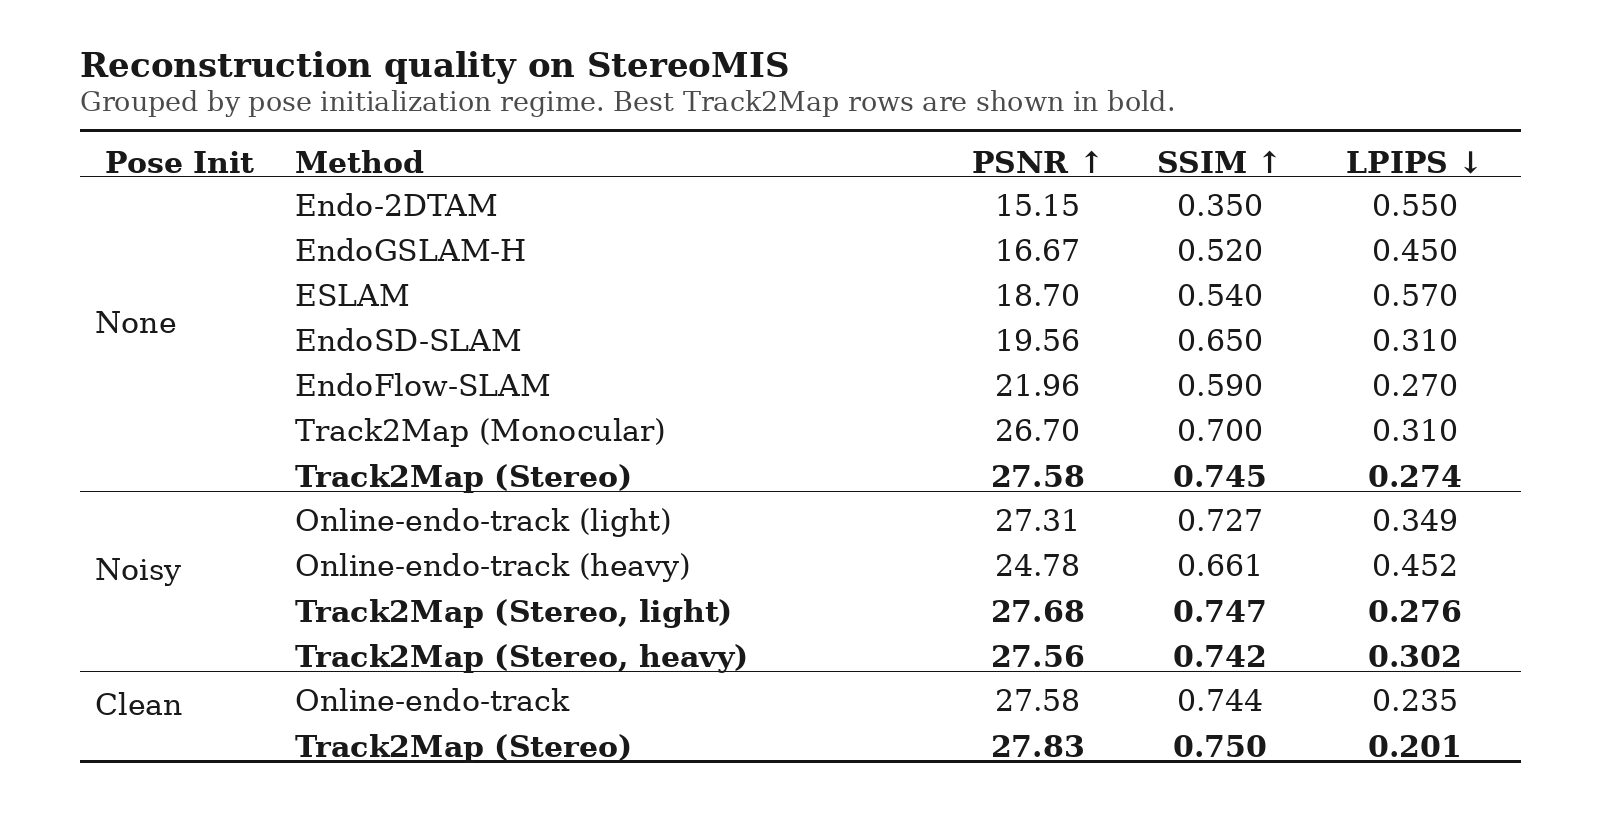
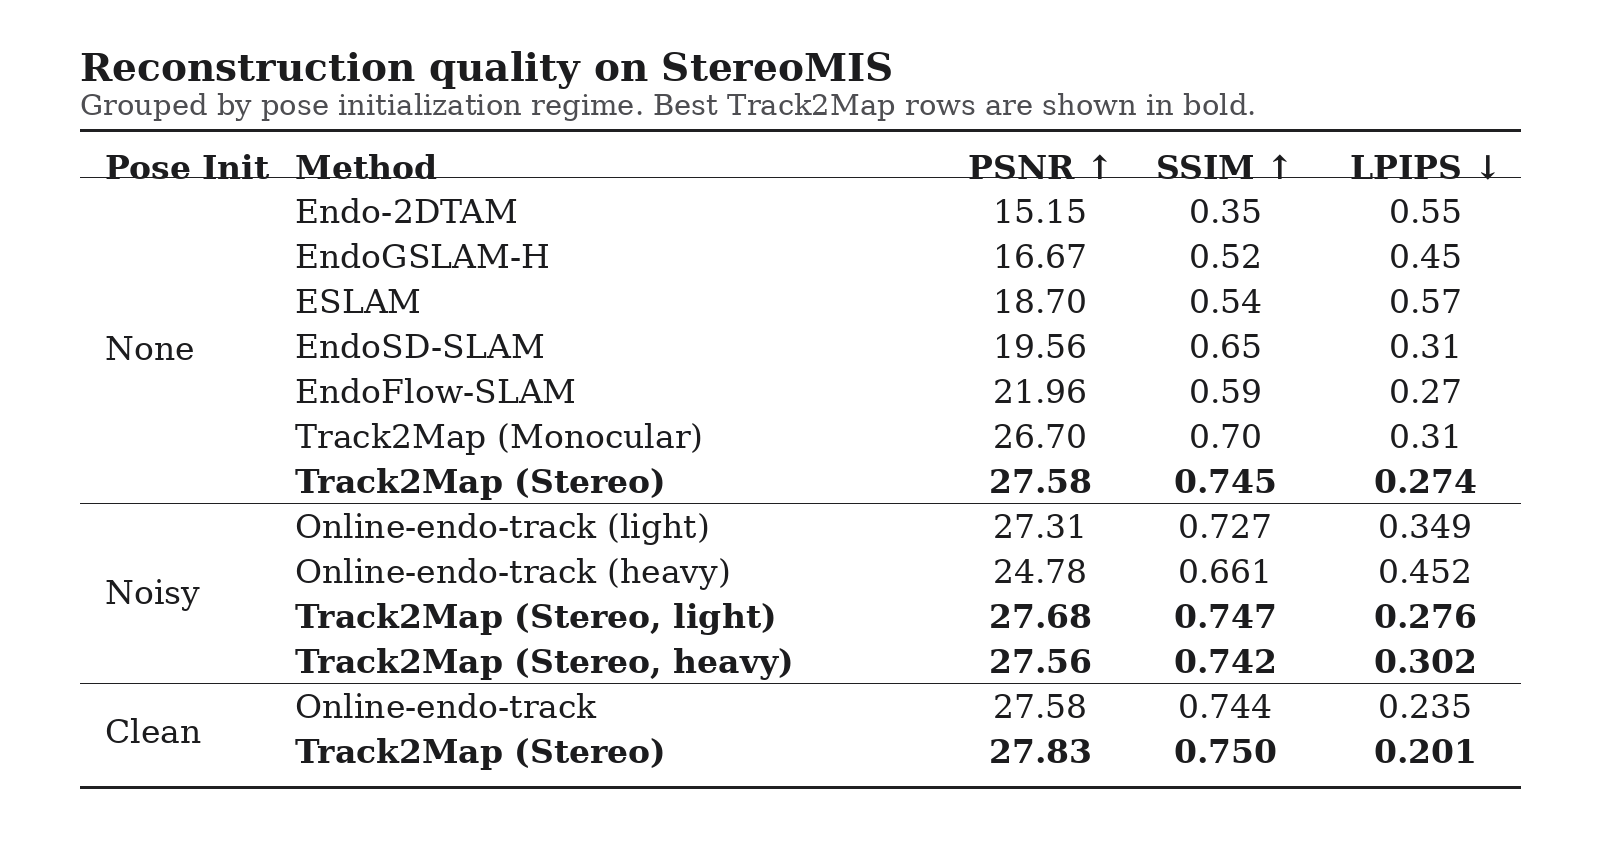
Group reconstruction and pose results

diff --git a/index.html b/index.html
@@ -177,27 +177,26 @@
           </figcaption>
         </figure>
 
+        <figure class="figure">
+          <img src="assets/qualitative_reconstruction.jpg" alt="Qualitative reconstruction under heavy pose noise">
+          <figcaption>
+            Under heavy pose noise, Track2Map preserves coherent anatomy while the pose-prior baseline
+            accumulates visible geometric distortions.
+          </figcaption>
+        </figure>
+
         <figure class="figure table-figure">
           <img src="assets/table_pose_paper.png" alt="Camera pose estimation table on StereoMIS">
           <figcaption>
             Camera pose estimation accuracy on StereoMIS. Lower is better for ATE and RPE.
           </figcaption>
         </figure>
-      </div>
 
-      <div class="split">
         <figure class="figure">
           <img src="assets/pose_estimation.png" alt="Pose estimation comparison on StereoMIS">
           <figcaption>
             Track2Map follows the ground-truth trajectory more closely than Endo3R and EndoGSLAM-H
             across three StereoMIS sequences.
-          </figcaption>
-        </figure>
-        <figure class="figure">
-          <img src="assets/qualitative_reconstruction.jpg" alt="Qualitative reconstruction under heavy pose noise">
-          <figcaption>
-            Under heavy pose noise, Track2Map preserves coherent anatomy while the pose-prior baseline
-            accumulates visible geometric distortions.
           </figcaption>
         </figure>
       </div>
